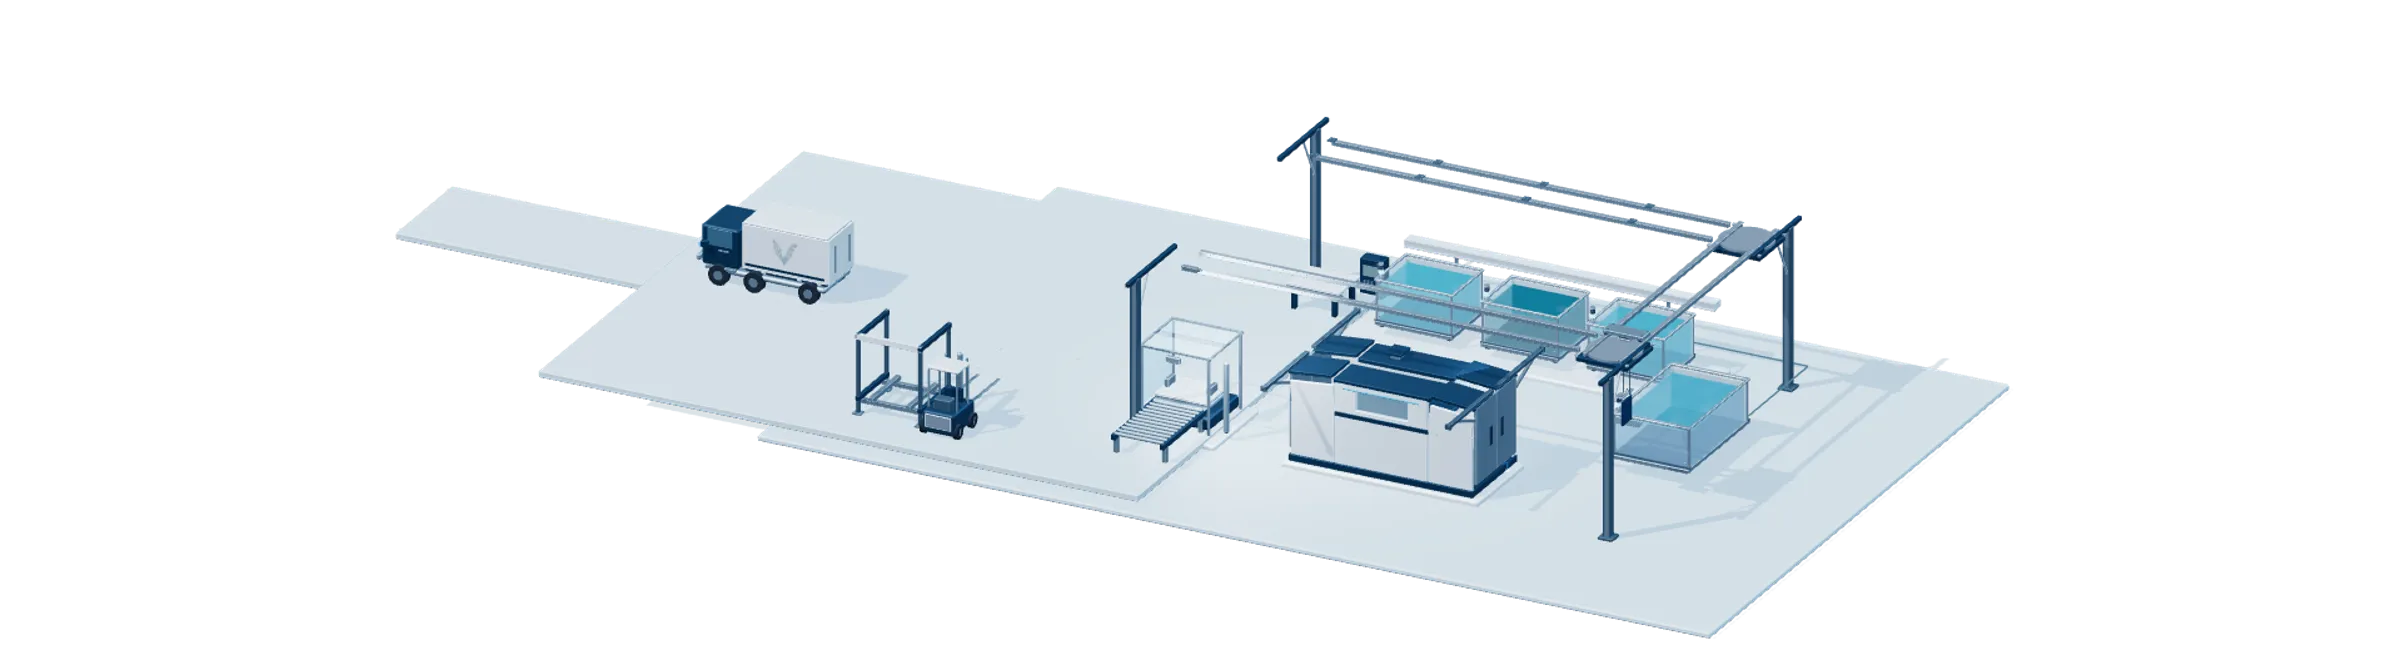
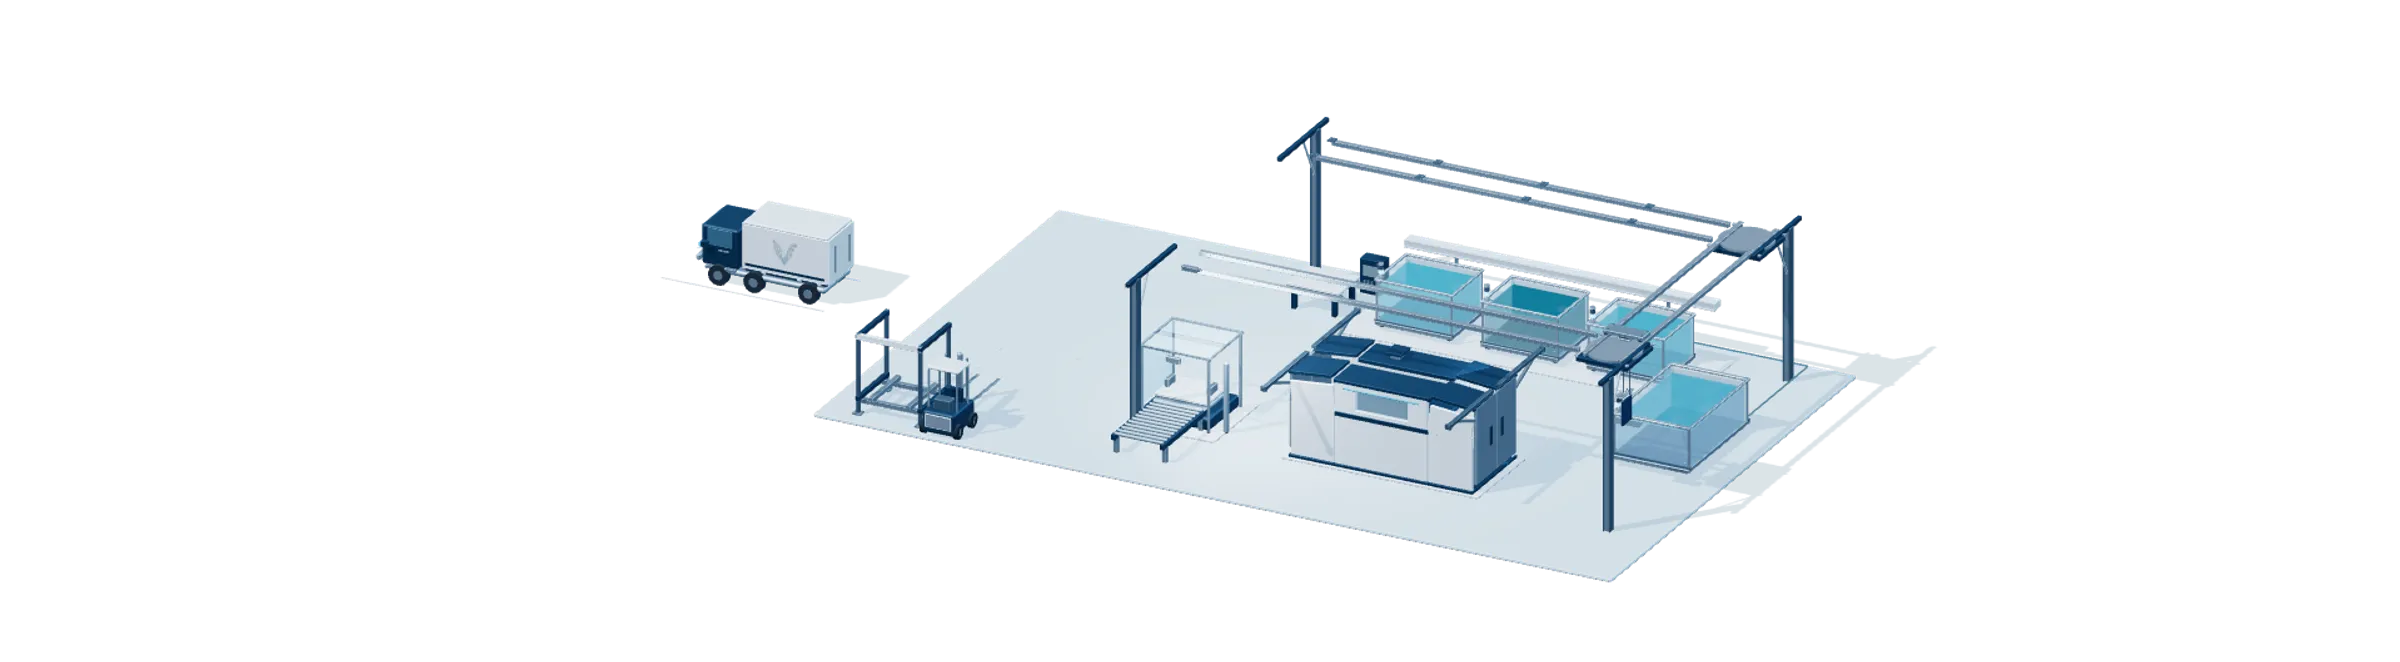
Seat the lot vertically in inspection and place the truck outside a compact floor

diff --git a/components/technology/operating-renderer.ts b/components/technology/operating-renderer.ts
@@ -26,16 +26,12 @@ export async function mountOperatingScene(canvas:HTMLCanvasElement,host:HTMLElem
   const mesh=new T.Mesh(geometry,mat);mesh.position.fromArray(pos);mesh.castShadow=!mat.transparent;mesh.receiveShadow=true;parent.add(mesh);return mesh;}
  function line(points:number[][],mat:T.Material,parent:T.Object3D=root){const g=own(new T.BufferGeometry().setFromPoints(points.map(p=>new T.Vector3(...p as [number,number,number]))));const l=new T.Line(g,mat);parent.add(l);return l;}
  const semanticMat=own(new T.LineBasicMaterial({color:0x2e9acb,transparent:true,opacity:.65}));
- const foundation=own(new T.MeshStandardMaterial({roughness:.38,metalness:.32}));box(root,[27,.16,17],[0,-.3,-.4],foundation,.06);
- const shadowMat=own(new T.ShadowMaterial({color:0x254962,opacity:.14}));const shadowFloor=new T.Mesh(own(new T.PlaneGeometry(34,23)),shadowMat);shadowFloor.rotation.x=-Math.PI/2;shadowFloor.position.y=-.4;shadowFloor.receiveShadow=true;root.add(shadowFloor);
- const pad=(x:number,z:number,w:number,d:number)=>{box(root,[w,.2,d],[x,-.18,z],pearl);box(root,[w,.08,d],[x,-.31,z],navy);};
+ const foundation=own(new T.MeshStandardMaterial({roughness:.38,metalness:.32}));box(root,[22.6,.1,13.9],[-1.3,-.05,-.25],foundation,.035);
+ const shadowMat=own(new T.ShadowMaterial({color:0x254962,opacity:.14}));const shadowFloor=new T.Mesh(own(new T.PlaneGeometry(58,23)),shadowMat);shadowFloor.rotation.x=-Math.PI/2;shadowFloor.position.y=-.012;shadowFloor.receiveShadow=true;root.add(shadowFloor);
+ const pad=(x:number,z:number,w:number,d:number)=>{box(root,[w,.06,d],[x,.028,z],pearl,.018);};
  // Separate equipment islands preserve the service aisle and both dock approaches.
  pad(2,factoryLayout.wetLineZ,9.8,2.7);pad(factoryLayout.ovenX,factoryLayout.returnLineZ,5.6,2.7);pad(-4,factoryLayout.returnLineZ,2.6,2.6);
- // Receiving and production share a level apron. The open centre is the lift aisle.
- box(root,[17,.18,15],[-11.5,-.09,0],foundation,.035);
- // The approach road narrows outside the dock, leaving the working apron legible in overview.
- box(root,[7,.18,3.2],[-23.5,-.09,0],foundation,.035);
- for(const z of [-1.35,1.35])box(root,[7,.01,.055],[-23.5,.007,z],pearl,.003);
+ // Exterior bay markings share the ground datum with the single interior slab.
  for(const x of [-8.09,-10.12])for(const z of [.9,2.5,4.1])
   box(root,[.045,.008,.72],[x,.007,z],pearl,.002);
  for(const z of [-1.03,1.03])box(root,[4.6,.01,.045],[logisticsLayout.truckX-.85,.007,z],pearl,.002);
@@ -182,7 +178,7 @@ export async function mountOperatingScene(canvas:HTMLCanvasElement,host:HTMLElem
  const lift=handler();
  // Inspection enclosure, locating jaws and two perpendicular scan planes.
  for(const x of [9.05,10.95])for(const z of [.9,2.7])box(qualityRoot,[.07,2.2,.07],[x,1,z],metal,.02);
- for(const z of [1.25,2.35])box(qualityRoot,[2.05,.06,.8],[10,2.12,z],glass);for(const x of [9.02,10.98])box(qualityRoot,[.045,.06,1.9],[x,2.12,1.8],metal,.01);for(const z of [.87,2.73])box(qualityRoot,[2.05,.06,.045],[10,2.12,z],metal,.01);box(qualityRoot,[.035,1.6,1.8],[9.02,1.25,1.8],glass,.01);
+ for(const z of [1.25,2.35])box(qualityRoot,[2.05,.06,.8],[10,2.12,z],glass);for(const x of [9.02,10.98])for(const z of [1.25,2.35])box(qualityRoot,[.045,.06,.8],[x,2.12,z],metal,.01);for(const z of [.87,2.73])box(qualityRoot,[2.05,.06,.045],[10,2.12,z],metal,.01);box(qualityRoot,[.035,1.6,1.8],[9.02,1.25,1.8],glass,.01);
  const jaws=[box(qualityRoot,[.13,.22,.4],[9.4,.85,1.8],metal,.025),box(qualityRoot,[.13,.22,.4],[10.6,.85,1.8],metal,.025)];
  const qualityBadge=box(qualityRoot,[.4,.16,.12],[10,1.95,2.8],metal,.025);
  const inspectionVertical=box(qualityRoot,[.025,1.1,1.4],[10,1.15,1.8],scanMaterial,.01);

diff --git a/tests/operating-platform.test.ts b/tests/operating-platform.test.ts
@@ -18,7 +18,7 @@ describe('connected operation and physical clearances',()=>{
  it('uses a separate four-tank factory and holds at CED during coating',()=>{expect(factoryStations.filter(s=>s.kind==='tank')).toHaveLength(4);const station=factoryStations.find(s=>s.id==='T04')!;expect(operatingState(42).carrier).toEqual({x:station.x,z:station.z});expect(twinPoint(station.x,station.z)).toEqual(twinPoint(operatingState(42).carrier.x,operatingState(42).carrier.z));});
  it('puts MES arrival and completion on the same five milestone centres',()=>{for(const [idx,time]of [[0,24],[3,26],[6,31],[10,37],[14,58]]){const p=digitalGraphState(operatingState(time),'V-MES').mesProgress;expect(p).toBeCloseTo([0,3,6,10,14].indexOf(idx)/4,6);}});
  it('lifts before traversing and never moves diagonally between process poses',()=>{
-  for(let t=24.005;t<58;t+=.005){const a=operatingState(t-.005).part,b=operatingState(t).part;const axes=[Math.abs(a.x-b.x),Math.abs(a.y-b.y),Math.abs(a.z-b.z)].filter(d=>d>1e-7);if(t<52.495||t>=57.41)expect(axes.length).toBeLessThanOrEqual(1);else expect(Math.abs(a.z-b.z)).toBeLessThan(1e-7);if(Math.abs(a.x-b.x)>1e-7&&b.z<0)expect(b.y-.325).toBeGreaterThan(1.54);}
+  for(let t=24.005;t<58;t+=.005){const a=operatingState(t-.005).part,b=operatingState(t).part;const axes=[Math.abs(a.x-b.x),Math.abs(a.y-b.y),Math.abs(a.z-b.z)].filter(d=>d>1e-7);if(t<52.495||t>=56.5)expect(axes.length).toBeLessThanOrEqual(1);else expect(Math.abs(a.z-b.z)).toBeLessThan(1e-7);if(Math.abs(a.x-b.x)>1e-7&&b.z<0)expect(b.y-.325).toBeGreaterThan(1.54);}
   for(const [t] of FACTORY_PROCESS_PATH){const a=operatingState(t-.00001).part,b=operatingState(t+.00001).part;expect(Math.hypot(a.x-b.x,a.y-b.y,a.z-b.z)).toBeLessThan(.001);}
  });
  it('closes the oven only around a stationary part and opens before unloading',()=>{for(let t=54;t<56;t+=.1){const s=operatingState(t);expect(s.ovenActive).toBe(true);expect(s.ovenDoor).toBe(0);expect(s.part).toEqual({x:2,y:factoryLayout.ovenLoadHeight,z:factoryLayout.returnLineZ});}expect(operatingState(56.5).ovenDoor).toBe(1);expect(operatingState(57).part.x).toBeLessThan(2);});

diff --git a/components/technology/operating-model.ts b/components/technology/operating-model.ts
@@ -74,7 +74,7 @@ export const FACTORY_PROCESS_PATH:readonly (readonly [number,number,number,numbe
  [31,2,2.3,factoryLayout.wetLineZ],[32,2,.9,factoryLayout.wetLineZ],[34,2,.9,factoryLayout.wetLineZ],[35.6,2,2.3,factoryLayout.wetLineZ],[36,2,2.3,factoryLayout.wetLineZ],
  [37,5,2.3,factoryLayout.wetLineZ],[37.45,5,.9,factoryLayout.wetLineZ],[38,5,.9,factoryLayout.wetLineZ],[38.55,5,2.3,factoryLayout.wetLineZ],[38.65,5,2.3,factoryLayout.wetLineZ],[39.4,8,2.3,factoryLayout.wetLineZ],[39.9,8,2.3,factoryLayout.wetLineZ],
  [40.6,8,2.3,-1.25],[41,8,.9,-1.25],[50,8,.9,-1.25],[50.9,8,2.3,-1.25],[51.2,8,2.3,-1.25],[52.3,8,2.3,factoryLayout.returnLineZ],[52.8,8,2.3,factoryLayout.returnLineZ],[53.05,5.8,1.94,factoryLayout.returnLineZ],[53.5,factoryLayout.ovenX,factoryLayout.ovenLoadHeight,factoryLayout.returnLineZ],
- [56.5,factoryLayout.ovenX,factoryLayout.ovenLoadHeight,factoryLayout.returnLineZ],[57.05,-1.8,1.94,factoryLayout.returnLineZ],[57.4,-4,2.3,factoryLayout.returnLineZ],[58,-4,1.055,factoryLayout.returnLineZ],
+ [56.5,factoryLayout.ovenX,factoryLayout.ovenLoadHeight,factoryLayout.returnLineZ],[57.05,-1.8,factoryLayout.ovenLoadHeight,factoryLayout.returnLineZ],[57.36,-4,factoryLayout.ovenLoadHeight,factoryLayout.returnLineZ],[57.48,-4,factoryLayout.ovenLoadHeight,factoryLayout.returnLineZ],[58,-4,1.055,factoryLayout.returnLineZ],
 ];
 /** Horizontal running distance excludes hoisting and stationary indexing; reversible on seek. */
 export function factoryRunningDistance(time:number){

diff --git a/components/technology/factory-camera.ts b/components/technology/factory-camera.ts
@@ -27,7 +27,8 @@ export function factoryCameraShot(state:ReturnType<typeof operatingState>,_phone
   {time:26,yaw:0,span:view(6.1,9),target:process,phase:'treatment'},
   {time:52.3,yaw:0,span:view(6.1,9),target:process,phase:'treatment'},
   {time:54,yaw:0,span:view(7.8,11),target:[2,1.25,2.5],phase:'oven'},
-  {time:56.5,yaw:0,span:view(7.8,11),target:[2,1.25,2.5],phase:'oven'},
+  {time:56.5,yaw:0,span:view(7,10),target:[-1.8,1.25,2.5],phase:'oven exit'},
+  {time:58.3,yaw:0,span:view(7,10),target:[-1.8,1.25,2.5],phase:'booth handoff'},
   {time:60,yaw:0,span:view(5.7,7),target:[-4,1.25,2.5],phase:'inspection'},
   {time:66.5,yaw:0,span:view(5.7,7),target:[-4,1.25,2.5],phase:'release'},
   {time:71,yaw:.45,span:view(7.4,10),target:[-5.4,1,4.6],phase:'packing'},
